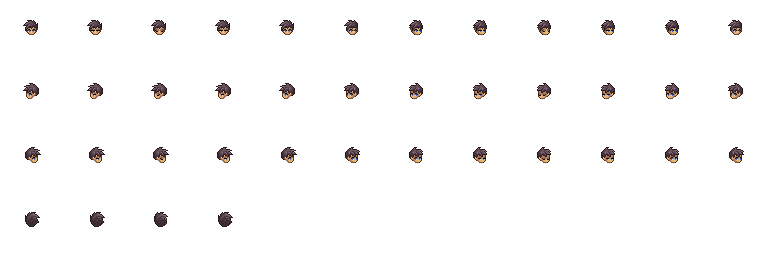
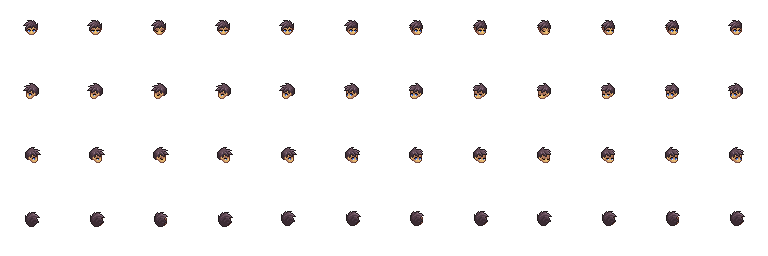
Make collision rectangle for the attack animation

diff --git a/Game1.cs b/Game1.cs
@@ -8,7 +8,8 @@ namespace spritesheet
     public enum Animation
     {
         Idle = 0,
-        Running = 1
+        Running = 1,
+        Attack = 2
     }
 
     public class Game1 : Game
@@ -57,7 +58,7 @@ namespace spritesheet
             framesPerDirection = new Dictionary<Animation, Dictionary<int, int>>();
             framesPerDirection[Animation.Idle] = new Dictionary<int, int>()
             {
-                { downRow, 4 },
+                { downRow, 12 },
                 { leftRow, 12 },
                 { rightRow, 12 },
                 { upRow, 12 }
@@ -69,11 +70,18 @@ namespace spritesheet
                 { rightRow, 8 },
                 { upRow, 8 }
             };
-
+            framesPerDirection[Animation.Attack] = new Dictionary<int, int>()
+            {
+                { downRow, 8 },
+                { leftRow, 8 },
+                { rightRow, 8 },
+                { upRow, 8 }
+            };
             rowsPerState = new Dictionary<Animation, int>()
             {
                 { Animation.Idle, 4 },
-                { Animation.Running, 4 }
+                { Animation.Running, 4 },
+                { Animation.Attack, 4 }
             };
         }
 
@@ -99,9 +107,18 @@ namespace spritesheet
                 Content.Load<Texture2D>("Swordsman_lvl1_Run_sword_back")
             };
 
+            var Attackspritesheets = new List<Texture2D>()
+            { 
+                Content.Load<Texture2D>("Swordsman_lvl1_Run_Attack_body"),
+                Content.Load<Texture2D>("Swordsman_lvl1_Run_Attack_head"),
+                Content.Load<Texture2D>("Swordsman_lvl1_Run_Attack_shadow"),
+                Content.Load<Texture2D>("Swordsman_lvl1_Run_Attack_swing"),
+                Content.Load<Texture2D>("Swordsman_lvl1_Run_Attack_sword"),
+                Content.Load<Texture2D>("Swordsman_lvl1_Run_Attack_sword_back")
+            };
             rectangleTexture = Content.Load<Texture2D>("rectangle");
 
-            var wholelist = new List<List<Texture2D>>() { Idlespritesheets, Runningspritesheets };
+            var wholelist = new List<List<Texture2D>>() { Idlespritesheets, Runningspritesheets, Attackspritesheets };
 
             spritesheetManager = new SpritesheetManager(wholelist);
             spritesheetDraw = new SpritesheetDraw(wholelist);
@@ -120,7 +137,13 @@ namespace spritesheet
             if (keyboardState.IsKeyDown(Keys.A)) playerDirection.X -= 1;
             if (keyboardState.IsKeyDown(Keys.D)) playerDirection.X += 1;
 
-            if (playerDirection != Vector2.Zero)
+
+
+            if (keyboardState.IsKeyDown(Keys.Space))
+            {
+                state = Animation.Attack;
+            }
+            else if (playerDirection != Vector2.Zero)
             {
                 playerDirection = Vector2.Normalize(playerDirection);
                 state = Animation.Running;
@@ -141,11 +164,17 @@ namespace spritesheet
             playerDrawRect.X = playerCollisionRect.X - 55;
             playerDrawRect.Y = playerCollisionRect.Y - 40;
 
-            int frames = framesPerDirection[state][directionRow]; 
-            float baseFrameSpeed = 0.1f; 
-            float frameSpeed = baseFrameSpeed * (8f / frames);
+            int frames = framesPerDirection[state][directionRow];
+            float frameSpeed = 0.12f;
+            if (state == Animation.Attack)
+            {
+                frameSpeed = 0.08f;
+            }
+            if (state == Animation.Idle && directionRow == downRow)
+            {
+                frameSpeed = 0.3f;
+            }
 
-            
             time += (float)gameTime.ElapsedGameTime.TotalSeconds;
             if (time > frameSpeed)
             {
